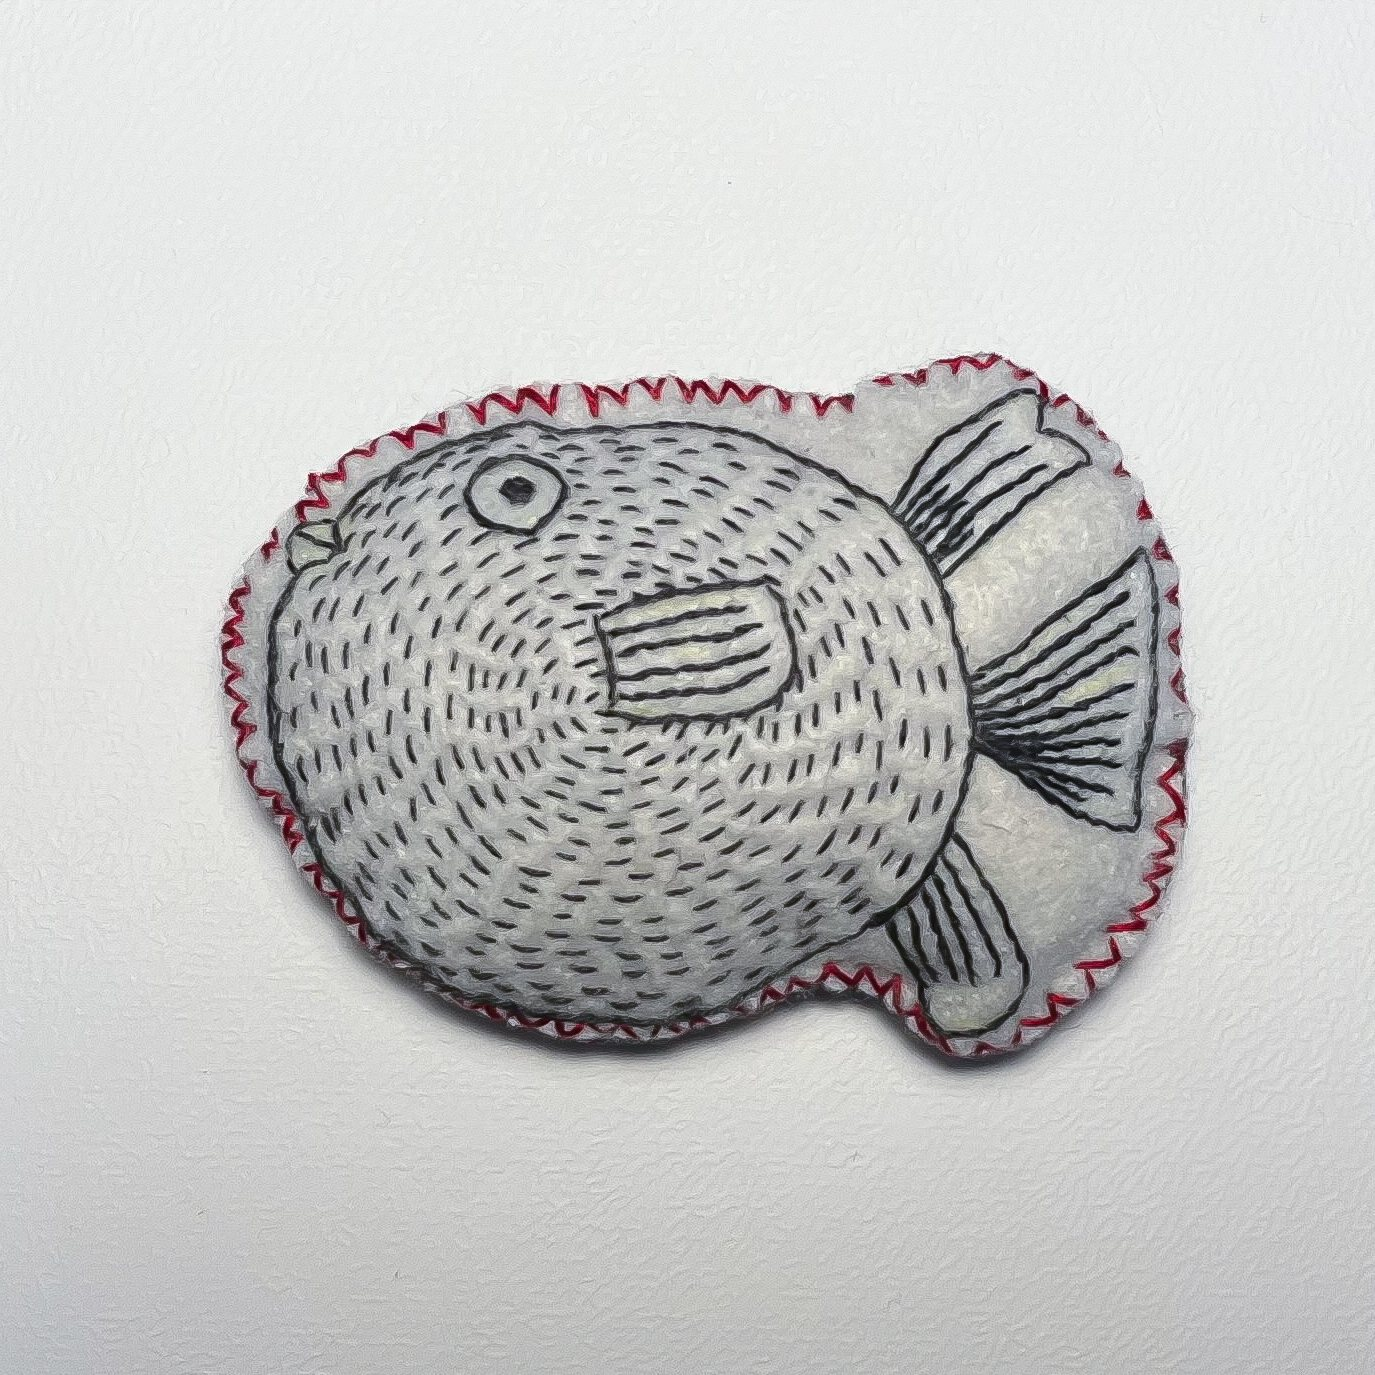
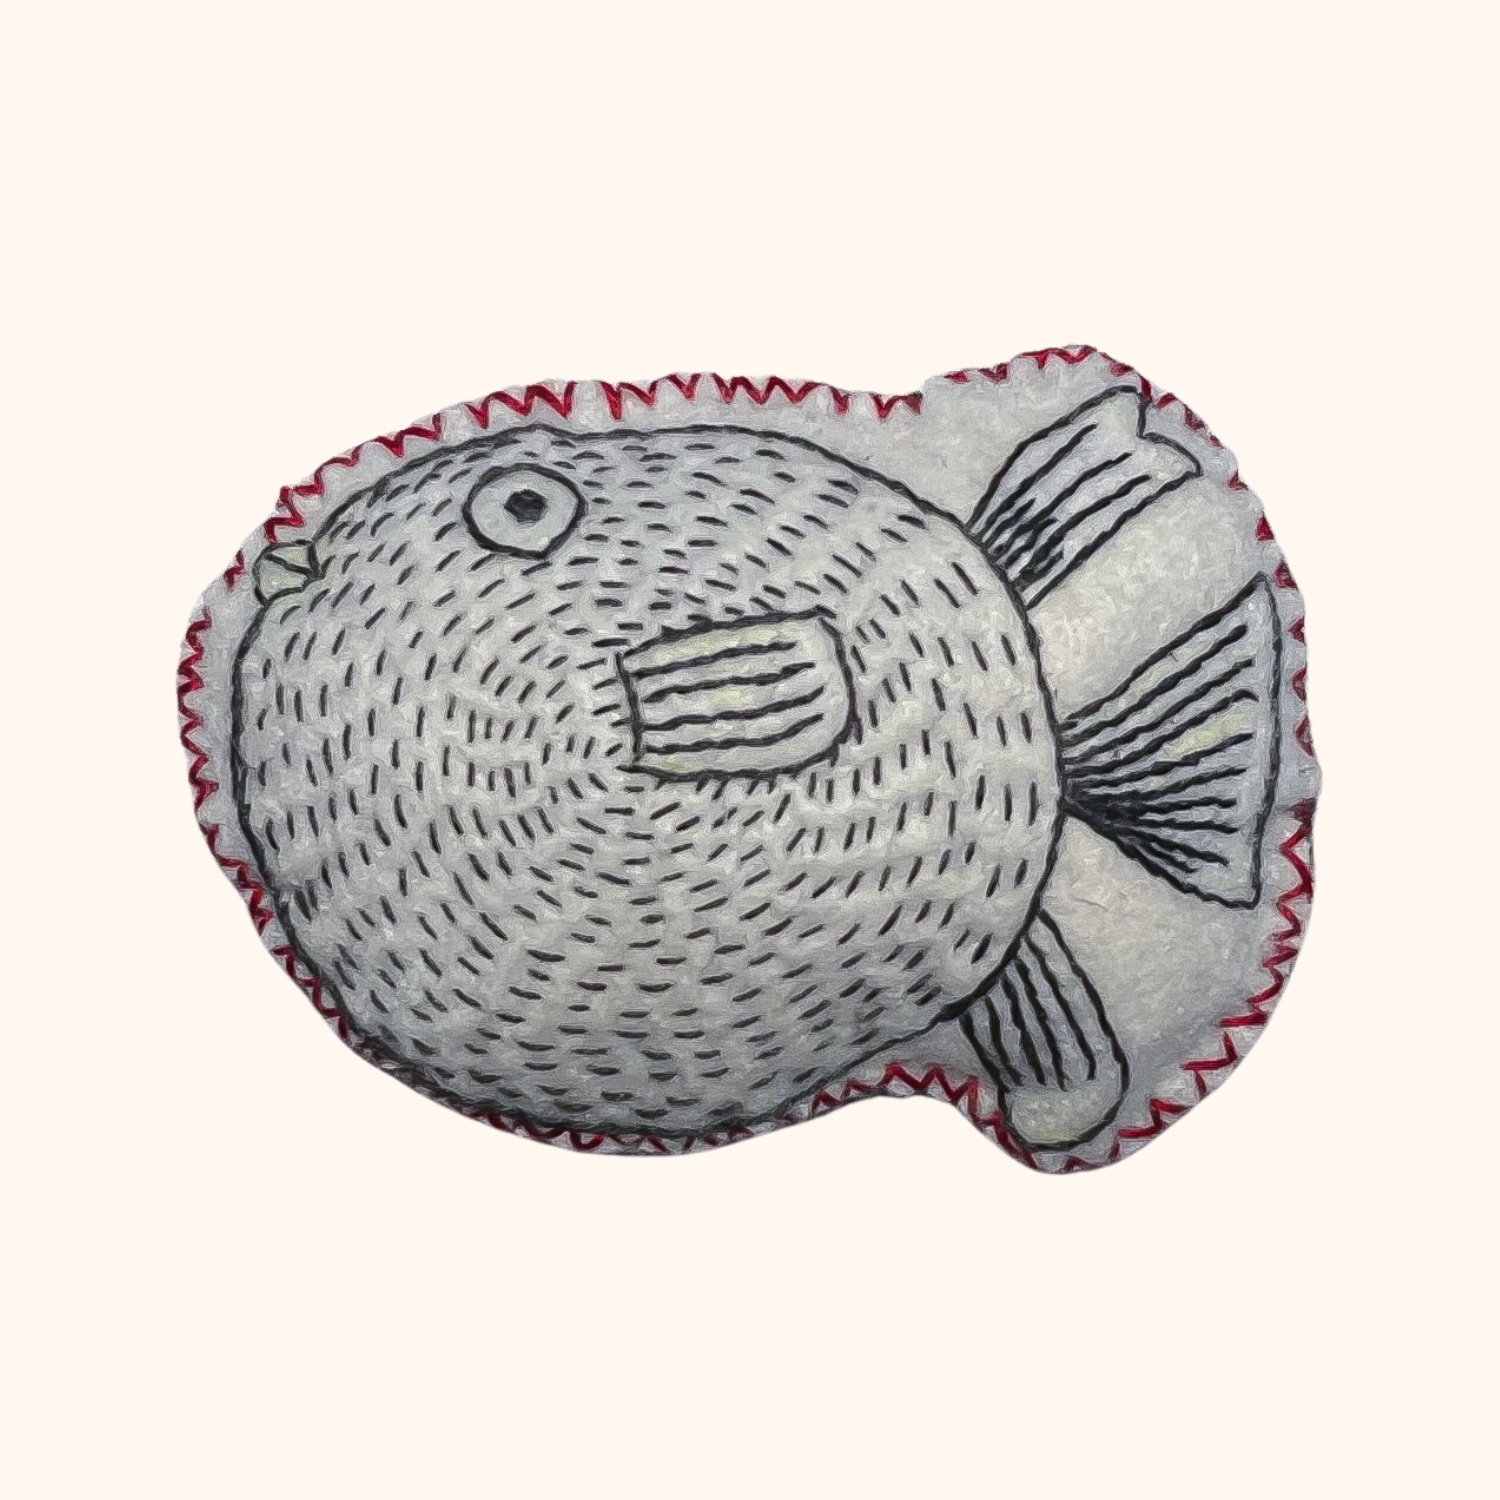
Add updated images of creations, reassign correct tags

diff --git a/content/works/little-red/index.md b/content/works/little-red/index.md
@@ -1,8 +1,9 @@
 +++
 title = 'Roodkapje'
 date = 2026-11-12
-weight = 4
+weight = 16
 featured = true
 category = 'brooch'
-tags = ['embroidery', 'memories']
+tags = ['embroidery']
+images = ['little-red.jpg', 'little-red-framed.jpg']
 +++

diff --git a/content/works/yawners/index.md b/content/works/yawners/index.md
@@ -1,0 +1,10 @@
++++
+title = 'Geeuw'
+date = 2026-11-12
+weight = 25
+featured = false
+category = 'brooch'
+tags = ['embroidery']
+images = ['yawners-together.jpg', 'yawners-man.jpg', 'yawners-woman.jpg', 'yawners-framed.jpg']
++++
+w

diff --git a/content/works/_index.md b/content/works/_index.md
@@ -4,4 +4,8 @@ title = 'Mijn creaties'
 [menus.main]
   name = 'Creaties'
   weight = 20
+
+# Only publish the resized photos the templates use, not the original files.
+[cascade.build]
+  publishResources = false
 +++

diff --git a/content/works/little-red-2/index.md b/content/works/little-red-2/index.md
@@ -1,0 +1,9 @@
++++
+title = 'Wolf eet roodkapje op'
+date = 2026-11-12
+weight = 17
+featured = true
+category = 'brooch'
+tags = ['embroidery']
+images = ['little-red-2.jpg', 'little-red-2-framed.jpg']
++++

diff --git a/content/works/poem/index.md b/content/works/poem/index.md
@@ -1,0 +1,9 @@
++++
+title = 'Handgeschreven gedicht'
+date = 2026-11-12
+weight = 22
+featured = false
+category = 'brooch'
+tags = ['embroidery', 'memories']
+images = ['poem.jpg', 'poem-framed.jpg']
++++

diff --git a/content/works/butterfly/index.md b/content/works/butterfly/index.md
@@ -1,8 +1,9 @@
 +++
 title = 'Vlinder'
 date = 2026-11-12
-weight = 9
+weight = 8
 featured = false
 category = 'brooch'
 tags = ['embroidery']
+images = ['butterfly.jpg', 'butterfly-framed.jpg']
 +++

diff --git a/content/works/blowfish/index.md b/content/works/blowfish/index.md
@@ -1,8 +1,9 @@
 +++
 title = 'Kogelvis'
 date = 2026-11-12
-weight = 7
+weight = 4
 featured = false
 category = 'brooch'
 tags = ['embroidery']
+images = ['blowfish.jpg', 'blowfish-framed.jpg']
 +++

diff --git a/content/works/face-contrast/index.md b/content/works/face-contrast/index.md
@@ -1,8 +1,8 @@
 +++
 title = 'Gezicht in contrast'
 date = 2026-11-12
-weight = 12
+weight = 13
 featured = false
 category = 'brooch'
-tags = ['embroidery', 'patchwork']
+tags = ['embroidery']
 +++

diff --git a/content/works/anatomical-heart/index.md b/content/works/anatomical-heart/index.md
@@ -1,8 +1,8 @@
 +++
-title = 'De Schreeuw'
+title = 'Anatomisch hart'
 date = 2026-11-12
-weight = 17
-featured = false
+weight = 2
+featured = true
 category = 'brooch'
 tags = ['embroidery']
 +++

diff --git a/content/works/night/index.md b/content/works/night/index.md
@@ -1,8 +1,8 @@
 +++
 title = 'Nacht'
 date = 2026-11-12
-weight = 16
+weight = 20
 featured = false
 category = 'brooch'
-tags = ['embroidery', 'patchwork', 'memories']
+tags = ['embroidery']
 +++

diff --git a/content/works/dali-black/index.md b/content/works/dali-black/index.md
@@ -1,0 +1,9 @@
++++
+title = 'Dalí zwart'
+date = 2026-11-12
+weight = 10
+featured = false
+category = 'brooch'
+tags = ['embroidery']
+images = ['dali-black.jpg', 'dali-black-framed.jpg']
++++

diff --git a/content/works/dali-red/index.md b/content/works/dali-red/index.md
@@ -1,0 +1,9 @@
++++
+title = 'Dalí rood'
+date = 2026-11-12
+weight = 11
+featured = true
+category = 'brooch'
+tags = ['embroidery']
+images = ['dali-red.jpg', 'dali-red-framed.jpg']
++++
